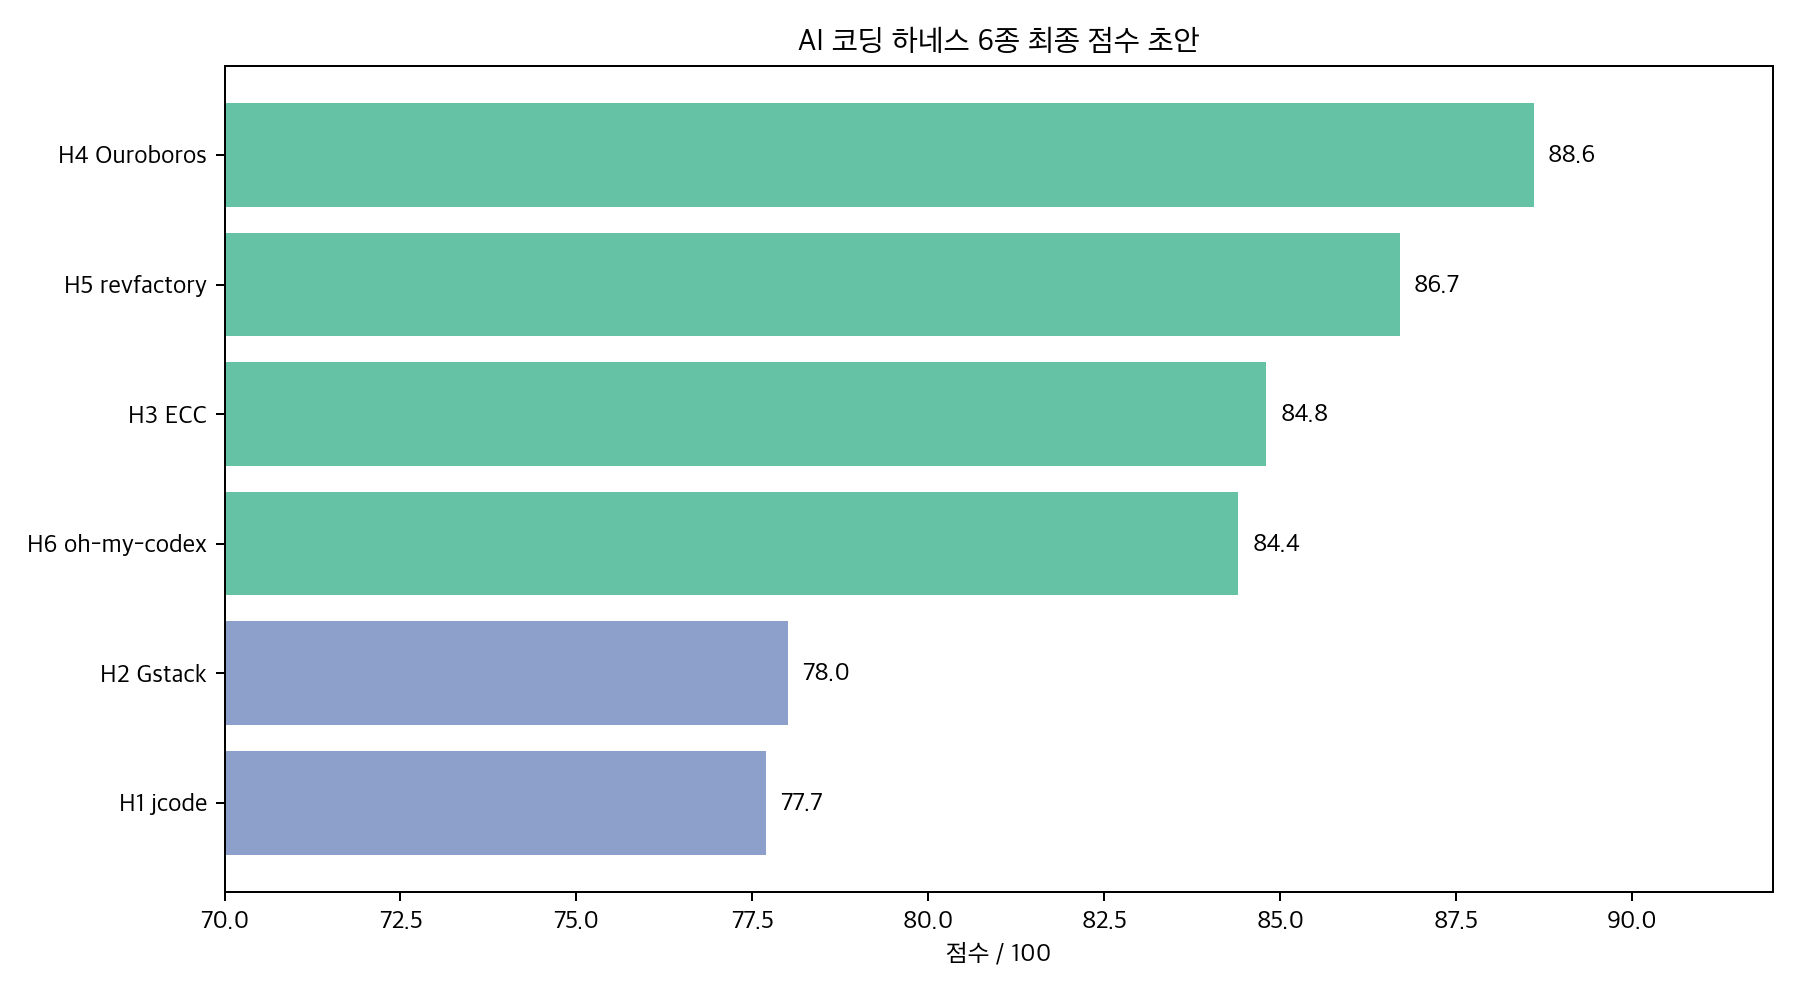
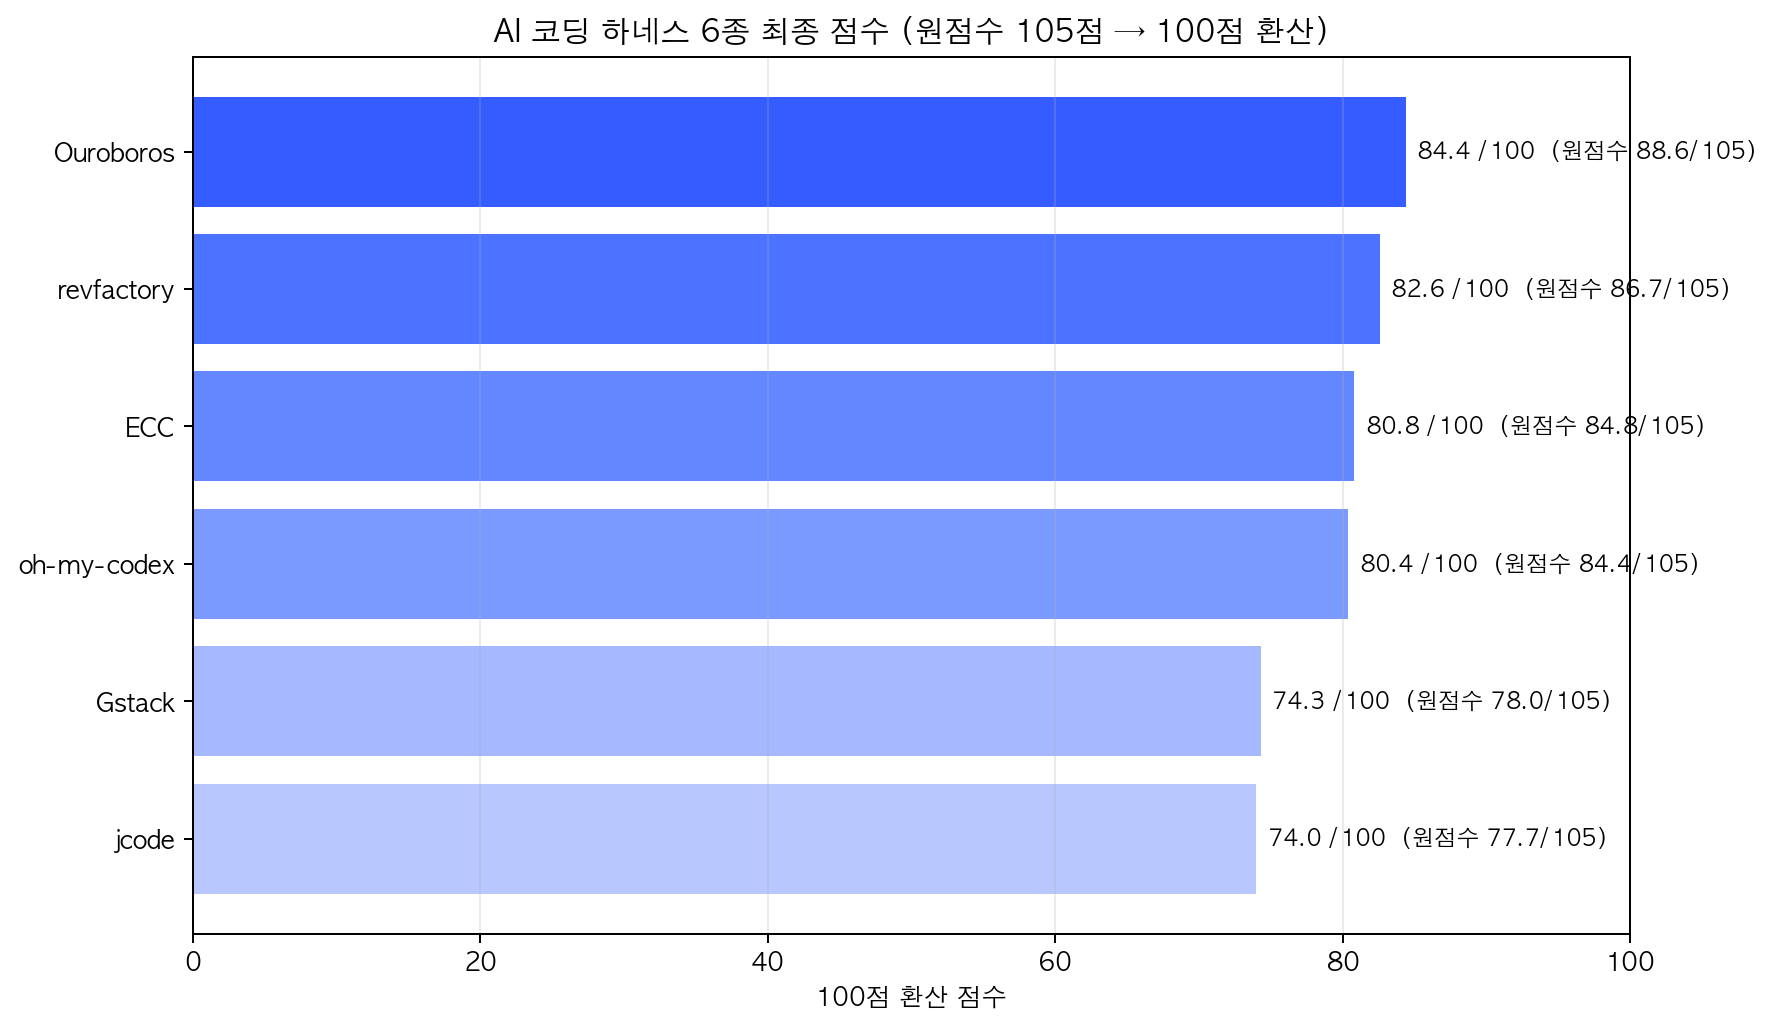
Normalize harness review score table

diff --git a/content/ai-coding-harness-6-tools-review-2026-05-03.md b/content/ai-coding-harness-6-tools-review-2026-05-03.md
@@ -42,22 +42,22 @@ description: "jcode, Gstack, Everything Claude Code, Ouroboros, revfactory/harne
 
 ## Q. 먼저 총점부터 볼 수 있을까요?
 
-아래는 실행 로그 기반 최종 점수입니다.
+아래는 실행 로그 기반 최종 점수입니다. T5 Guardrail 항목을 추가하면서 원점수 합계가 105점이 되었기 때문에, 공개 표에는 100점 환산을 함께 표기했습니다.
 
-| 순위 | 도구 | 총점 /100 | 판정 | 한줄 평가 |
-|---:|---|---:|---|---|
-| 1 | **[Ouroboros](https://github.com/Q00/ouroboros)** | **88.6** | 추천 상위권 | spec-first 워크플로와 감사 가능한 산출물이 가장 강했어요 |
-| 2 | **[revfactory/harness](https://github.com/revfactory/harness)** | **86.7** | 추천 | 에이전트 팀과 하네스를 설계하는 능력이 좋았어요 |
-| 3 | **[Everything Claude Code](https://github.com/affaan-m/everything-claude-code)** | **84.8** | 추천 | Claude Code 생태계를 종합팩처럼 묶어줬어요 |
-| 4 | **[oh-my-codex](https://github.com/Yeachan-Heo/oh-my-codex)** | **84.4** | 추천 | Codex 기반으로 빠르고 실전적이었어요 |
-| 5 | **[Gstack](https://github.com/garrytan/gstack)** | **78.0** | 가능성 큼 | skill/command pack으로는 좋지만 하네스 자동화 근거는 약했어요 |
-| 6 | **[jcode](https://github.com/1jehuang/jcode)** | **77.7** | 가능성 큼 | 빠르지만 build, 인증, hook 쪽에서 아쉬움이 있었어요 |
+| 순위 | 도구 | 원점수 /105 | 100점 환산 | 판정 | 한줄 평가 |
+|---:|---|---:|---:|---|---|
+| 1 | **[Ouroboros](https://github.com/Q00/ouroboros)** | **88.6** | **84.4** | 추천 상위권 | spec-first 워크플로와 감사 가능한 산출물이 가장 강했어요 |
+| 2 | **[revfactory/harness](https://github.com/revfactory/harness)** | **86.7** | **82.6** | 추천 | 에이전트 팀과 하네스를 설계하는 능력이 좋았어요 |
+| 3 | **[Everything Claude Code](https://github.com/affaan-m/everything-claude-code)** | **84.8** | **80.8** | 추천 | Claude Code 생태계를 종합팩처럼 묶어줬어요 |
+| 4 | **[oh-my-codex](https://github.com/Yeachan-Heo/oh-my-codex)** | **84.4** | **80.4** | 추천 | Codex 기반으로 빠르고 실전적이었어요 |
+| 5 | **[Gstack](https://github.com/garrytan/gstack)** | **78.0** | **74.3** | 가능성 큼 | skill/command pack으로는 좋지만 하네스 자동화 근거는 약했어요 |
+| 6 | **[jcode](https://github.com/1jehuang/jcode)** | **77.7** | **74.0** | 가능성 큼 | 빠르지만 build, 인증, hook 쪽에서 아쉬움이 있었어요 |
 
 ![AI 코딩 하네스 6종 최종 점수](./images/ai-coding-harness-6-tools-review-2026-05-03/final-score-ranking-ko.png)
 
 ![항목별 점수 분포](./images/ai-coding-harness-6-tools-review-2026-05-03/category-heatmap-ko.png)
 
-점수만 보면 Ouroboros가 1위, revfactory가 2위, Everything Claude Code와 oh-my-codex가 근소한 차이로 따라붙는 구조입니다.
+100점 환산 기준으로도 순위는 같습니다. Ouroboros가 1위, revfactory가 2위, Everything Claude Code와 oh-my-codex가 근소한 차이로 따라붙는 구조입니다.
 
 프로젝트를 직접 보고 싶다면 위 표의 도구명을 눌러보면 됩니다. 이번에 본 저장소는 [jcode](https://github.com/1jehuang/jcode), [Gstack](https://github.com/garrytan/gstack), [Everything Claude Code](https://github.com/affaan-m/everything-claude-code), [Ouroboros](https://github.com/Q00/ouroboros), [revfactory/harness](https://github.com/revfactory/harness), [oh-my-codex](https://github.com/Yeachan-Heo/oh-my-codex)입니다.
 
